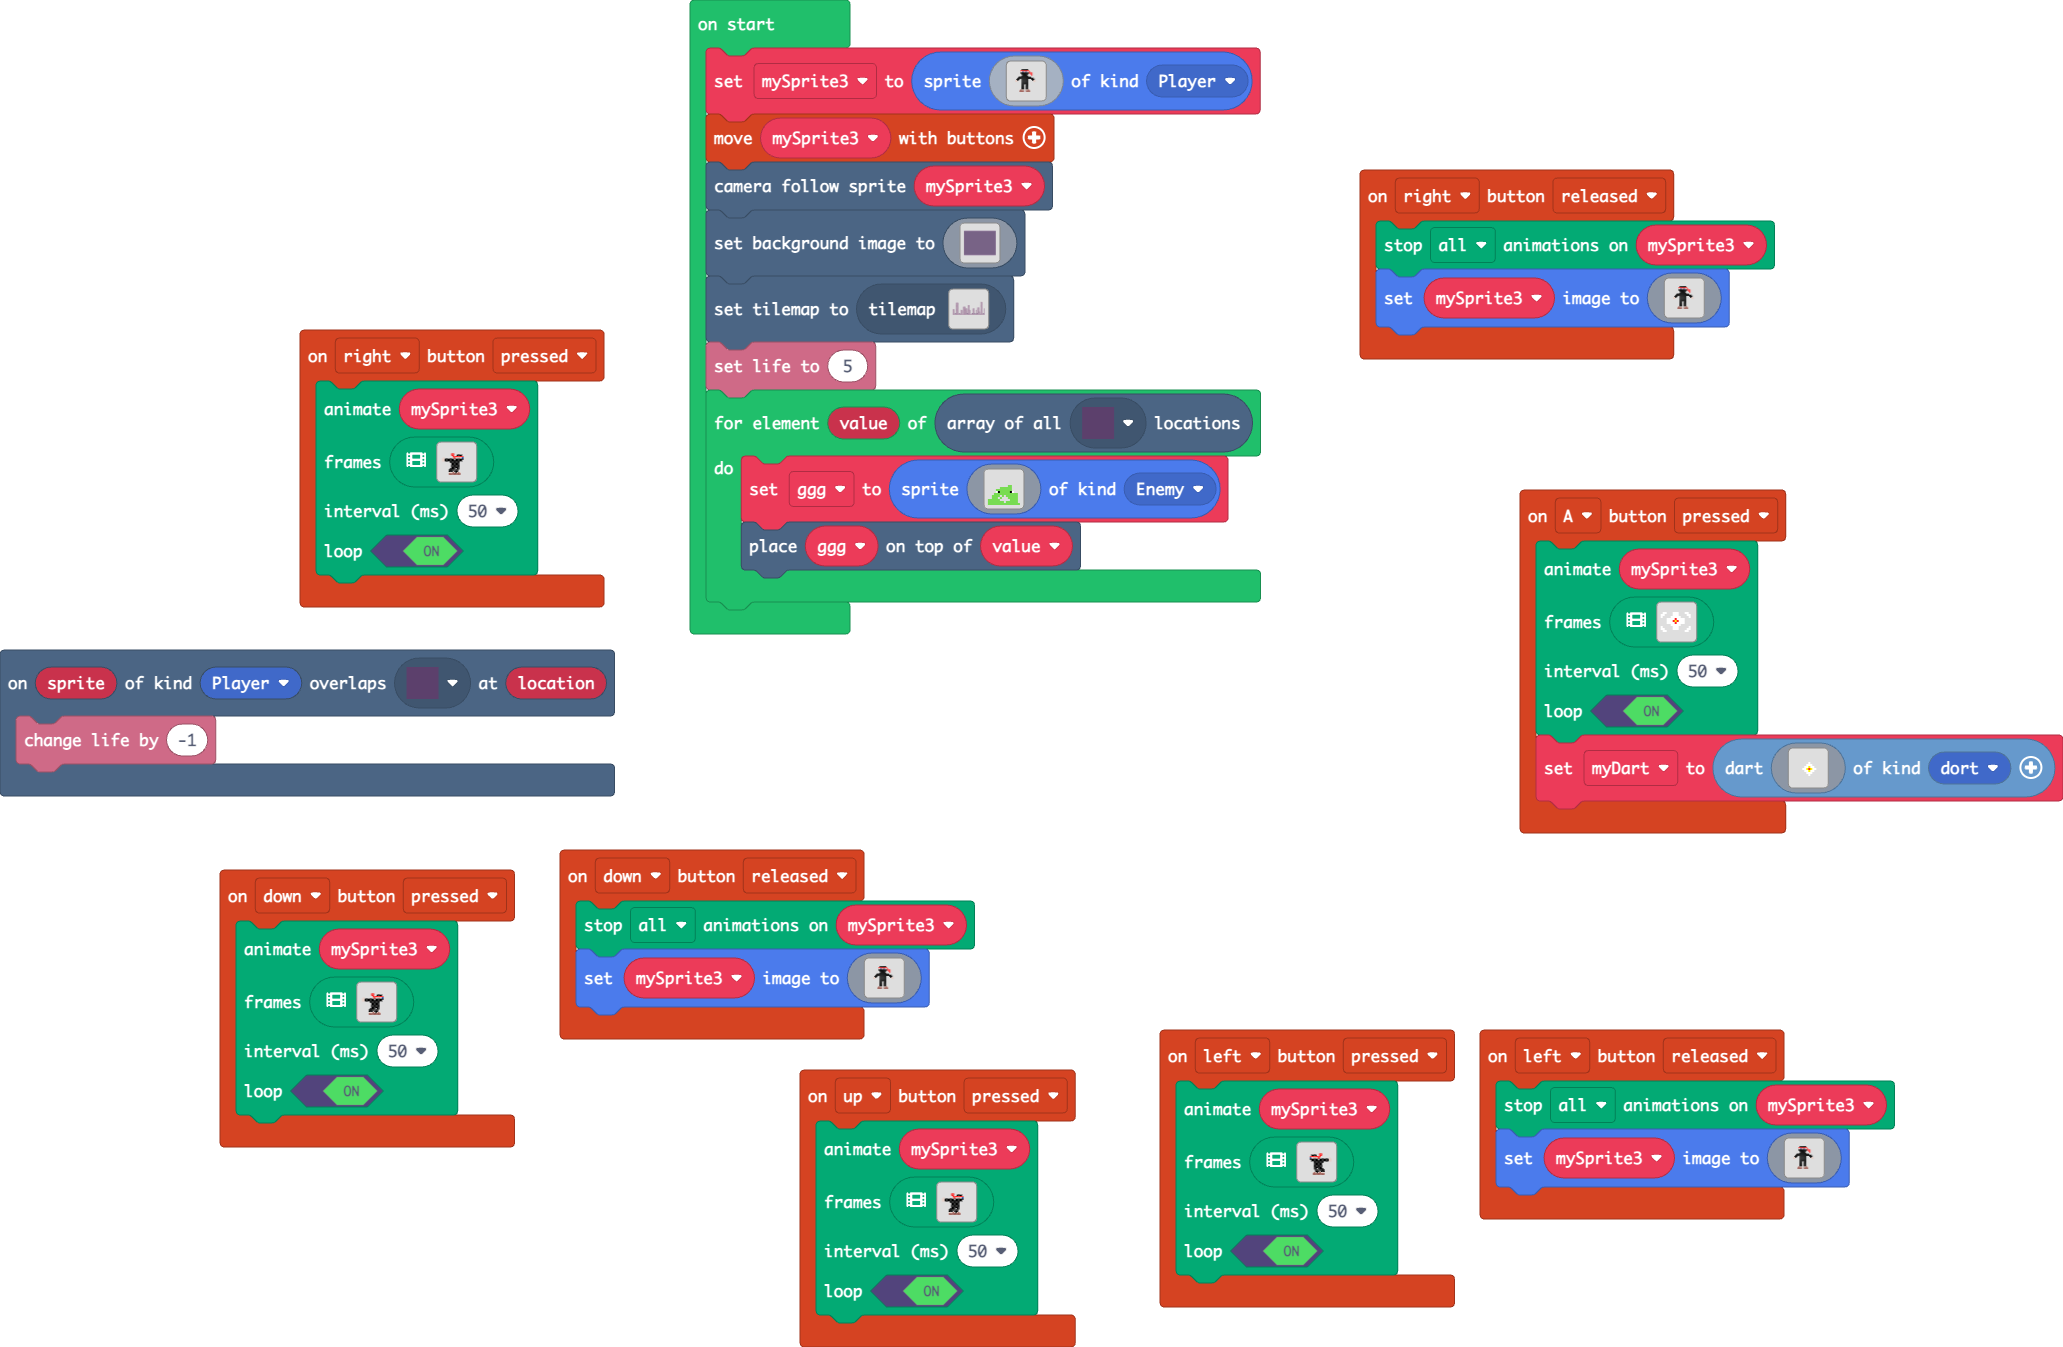
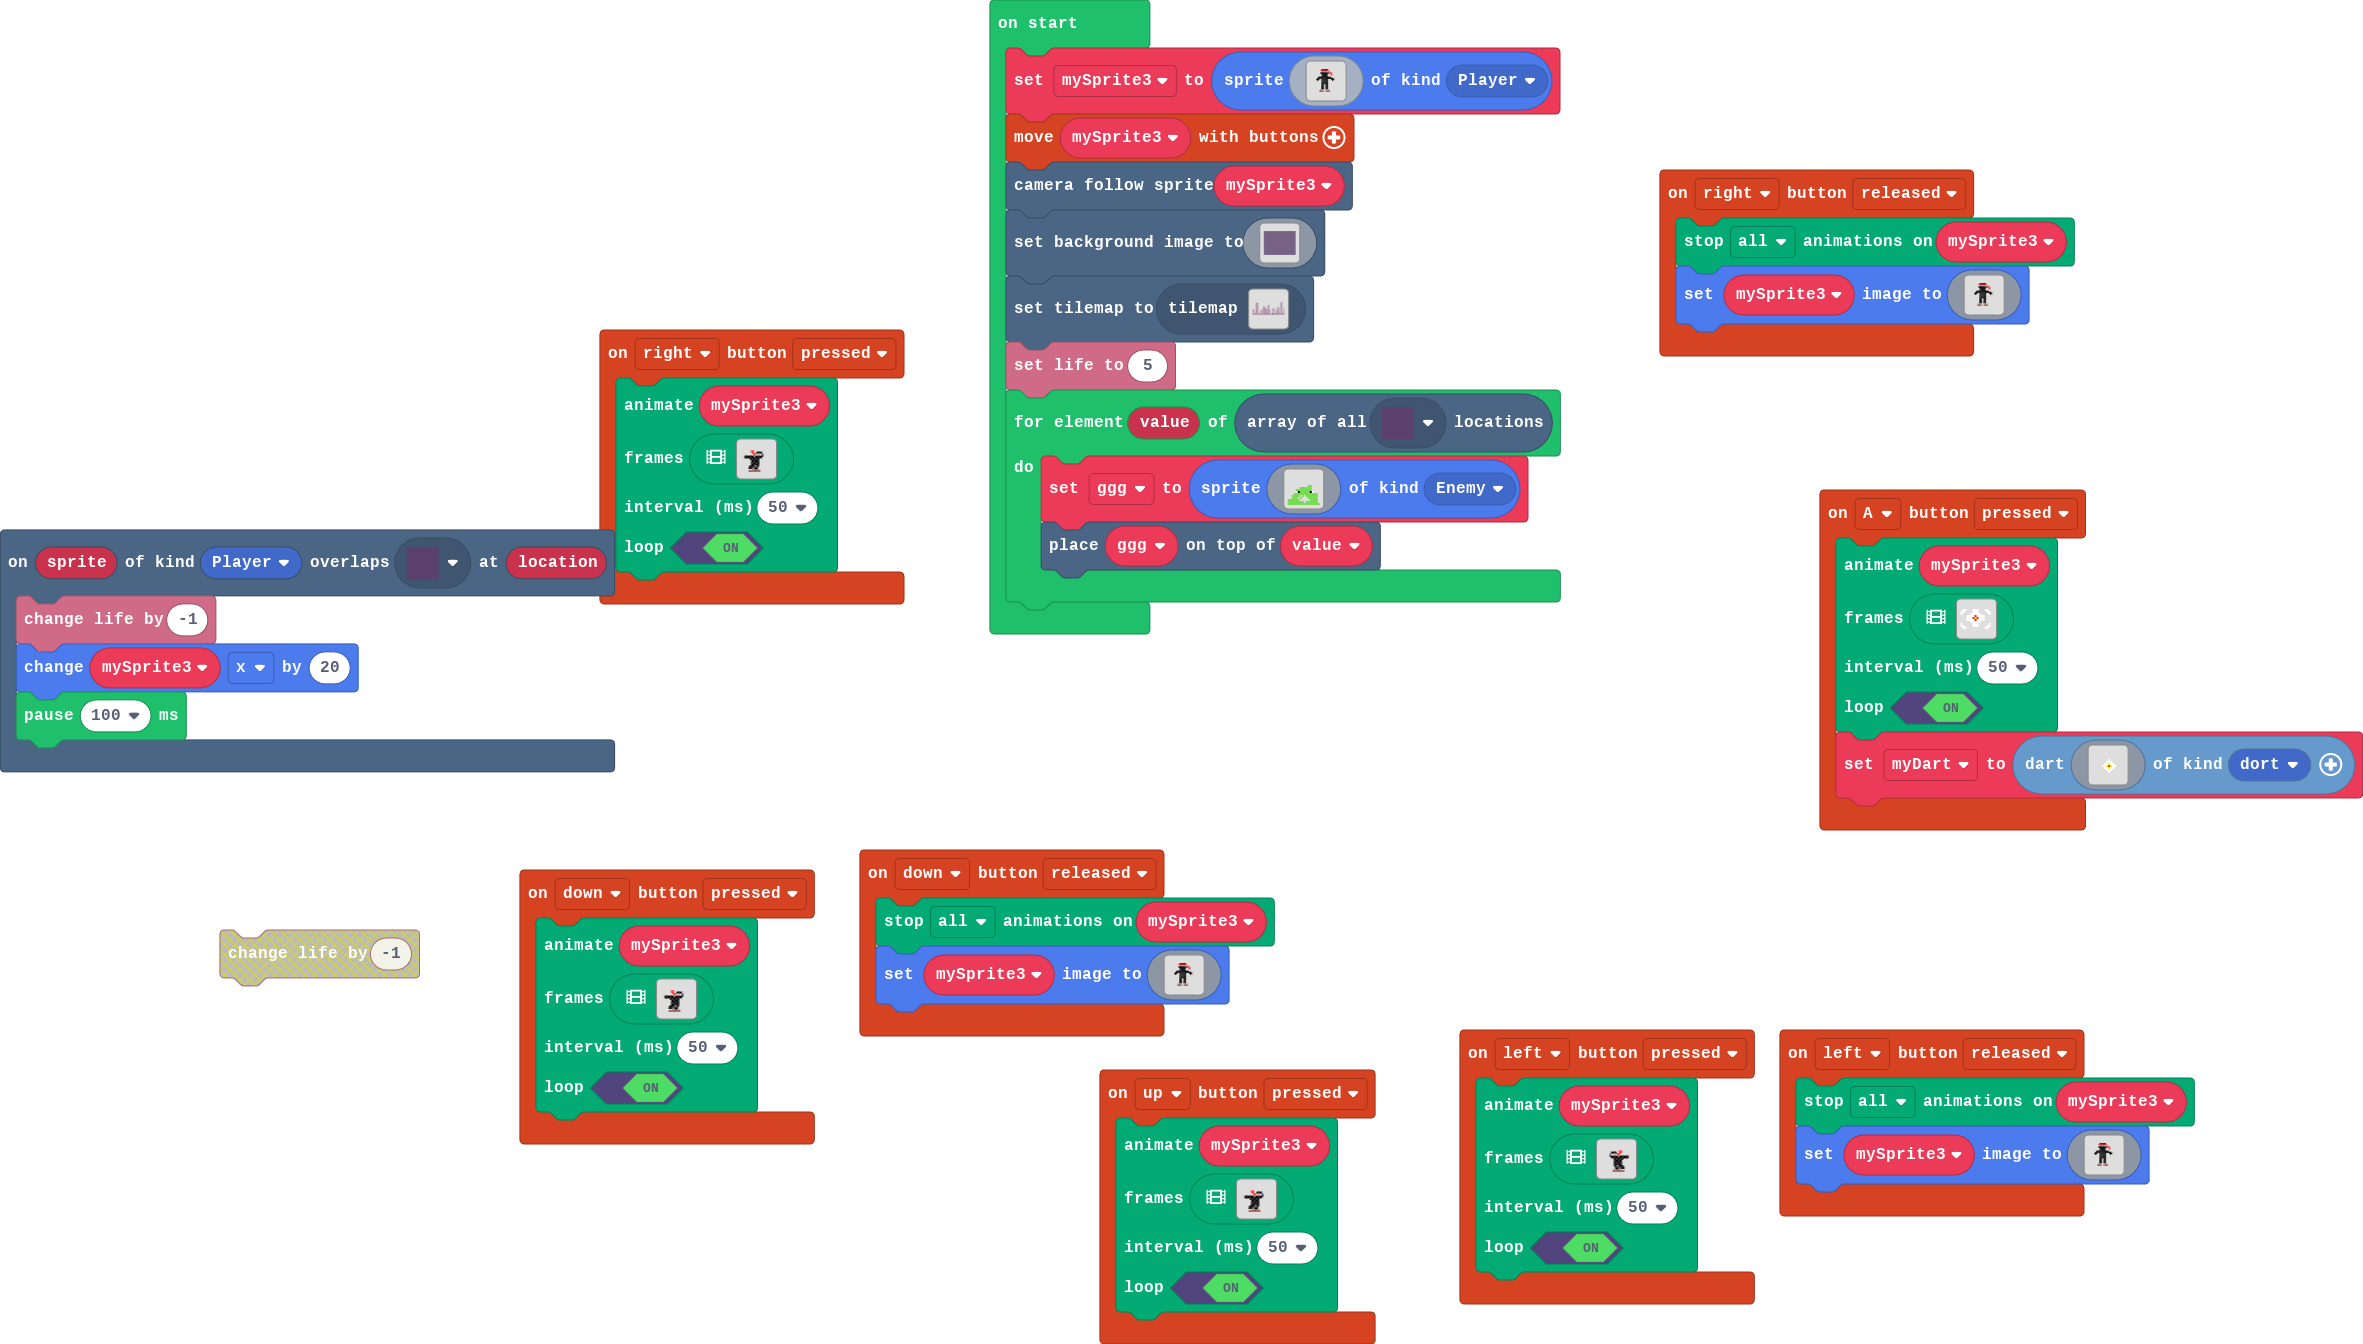
added damage

diff --git a/main.ts b/main.ts
@@ -3,6 +3,8 @@ namespace SpriteKind {
 }
 scene.onOverlapTile(SpriteKind.Player, assets.tile`myTile0`, function (sprite, location) {
     info.changeLifeBy(-1)
+    mySprite3.x += 20
+    pause(100)
 })
 controller.up.onEvent(ControllerButtonEvent.Pressed, function () {
     animation.runImageAnimation(
